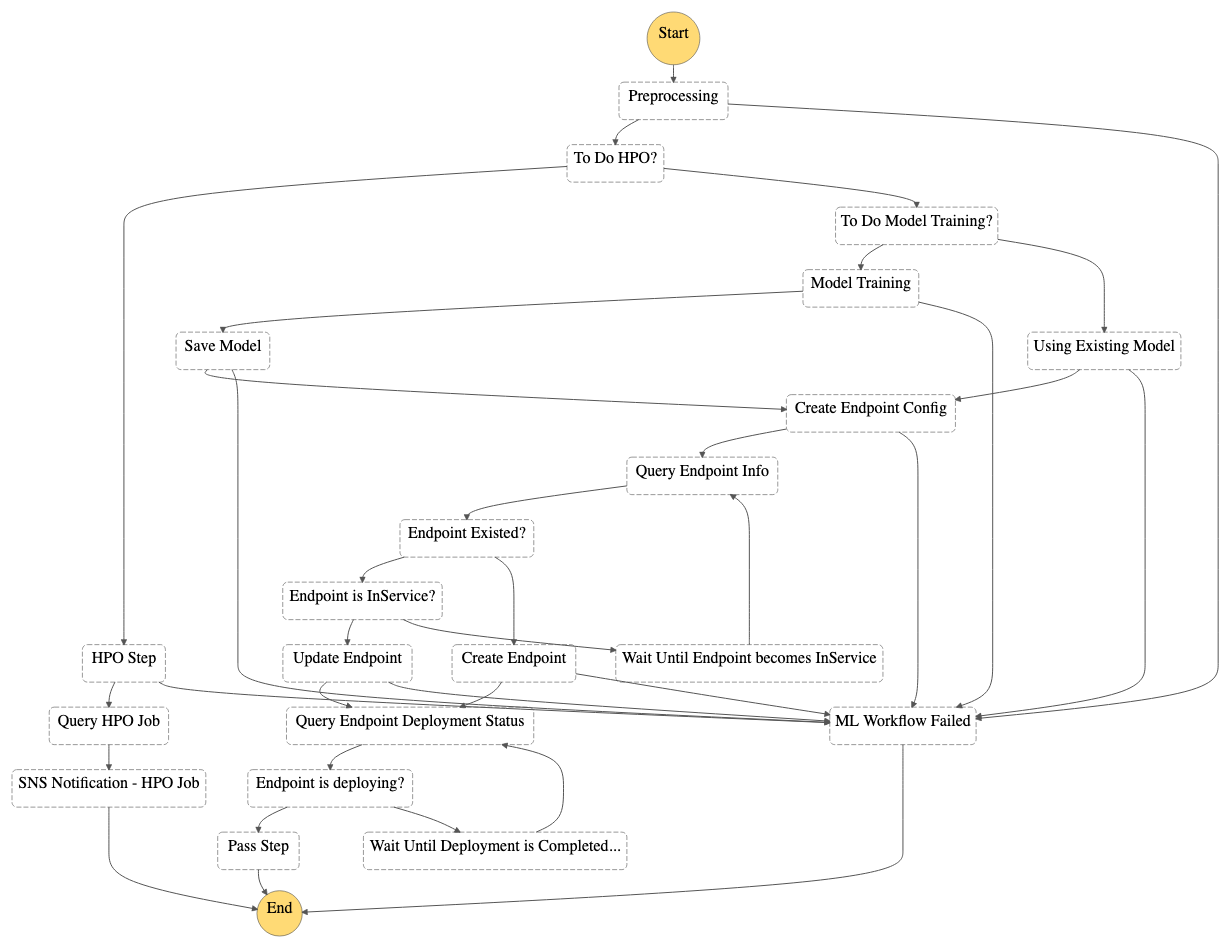
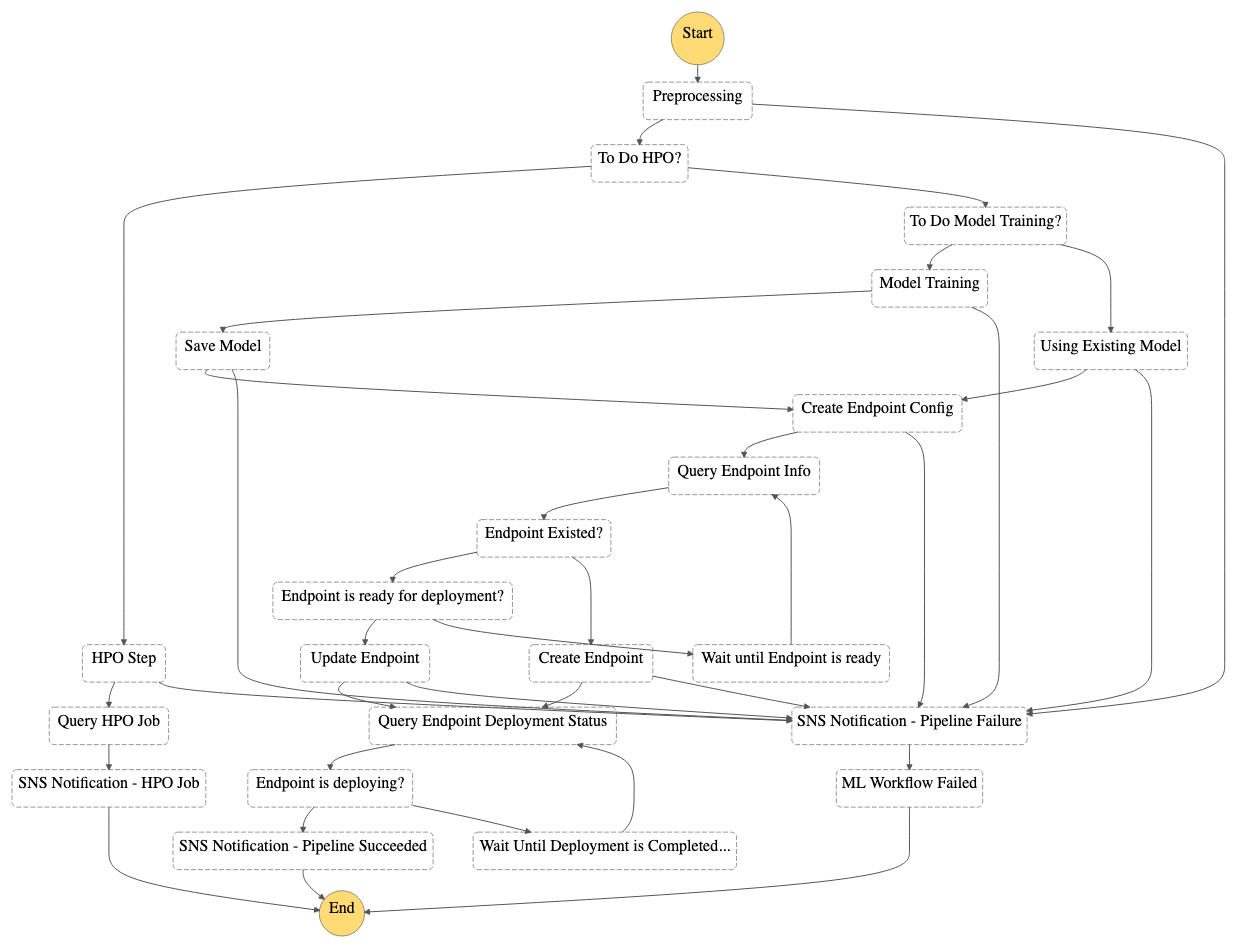
update notebook to retrieve variables from parameter store.

diff --git a/notebook/pipeline/ml_pipeline.py b/notebook/pipeline/ml_pipeline.py
@@ -175,7 +175,8 @@ def create_hpo_job_sns_notification_step(
         state_id = 'SNS Notification - HPO Job',
         parameters = {
             'TopicArn': topic_arn,
-            'Message': query_hpo_job_lambda_step.output()['Payload']['bestTrainingJob']
+            'Message': query_hpo_job_lambda_step.output()['Payload']['bestTrainingJob'],
+            'Subject': "[ML Pipeline] HPO Job - Best Training Job"
         }
     )    
     return hpo_job_sns_step
@@ -318,13 +319,16 @@ def create_check_endpoint_status_choice_step(
     query_endpoint_lambda_step,
     endpoint_update_step
 ):
-    check_endpoint_status_step = Choice('Endpoint is InService?')
+    check_endpoint_status_step = Choice('Endpoint is ready for deployment?')
 
     endpoint_in_service_rule = ChoiceRule.StringEquals(variable = query_endpoint_lambda_step.output()['Payload']['endpoint_status'], value = 'InService')
-    endpoint_in_service_rule = ChoiceRule.StringEquals(variable = query_endpoint_lambda_step.output()['Payload']['endpoint_status'], value = 'Failed')
     check_endpoint_status_step.add_choice(rule = endpoint_in_service_rule, next_step = endpoint_update_step)
+    
+    # in case endpoint is in 'failed' state, we allow it to update so as to trigger exception.
+    endpoint_failed_rule = ChoiceRule.StringEquals(variable = query_endpoint_lambda_step.output()['Payload']['endpoint_status'], value = 'Failed')
+    check_endpoint_status_step.add_choice(rule = endpoint_failed_rule, next_step = endpoint_update_step)
 
-    wait_step = Wait(state_id = f"Wait Until Endpoint becomes InService", seconds = 20)
+    wait_step = Wait(state_id = f"Wait until Endpoint is ready", seconds = 20)
     wait_step.next(query_endpoint_lambda_step)
     check_endpoint_status_step.default_choice(next_step = wait_step)  
 
@@ -415,7 +419,6 @@ def create_success_notification_step(topic_arn):
         }
     )    
     return success_sns_step
-
 
 def get_state_machine_arn(workflow_name, region, account_id):
     return f"arn:aws:states:{region}:{account_id}:stateMachine:{workflow_name}"
